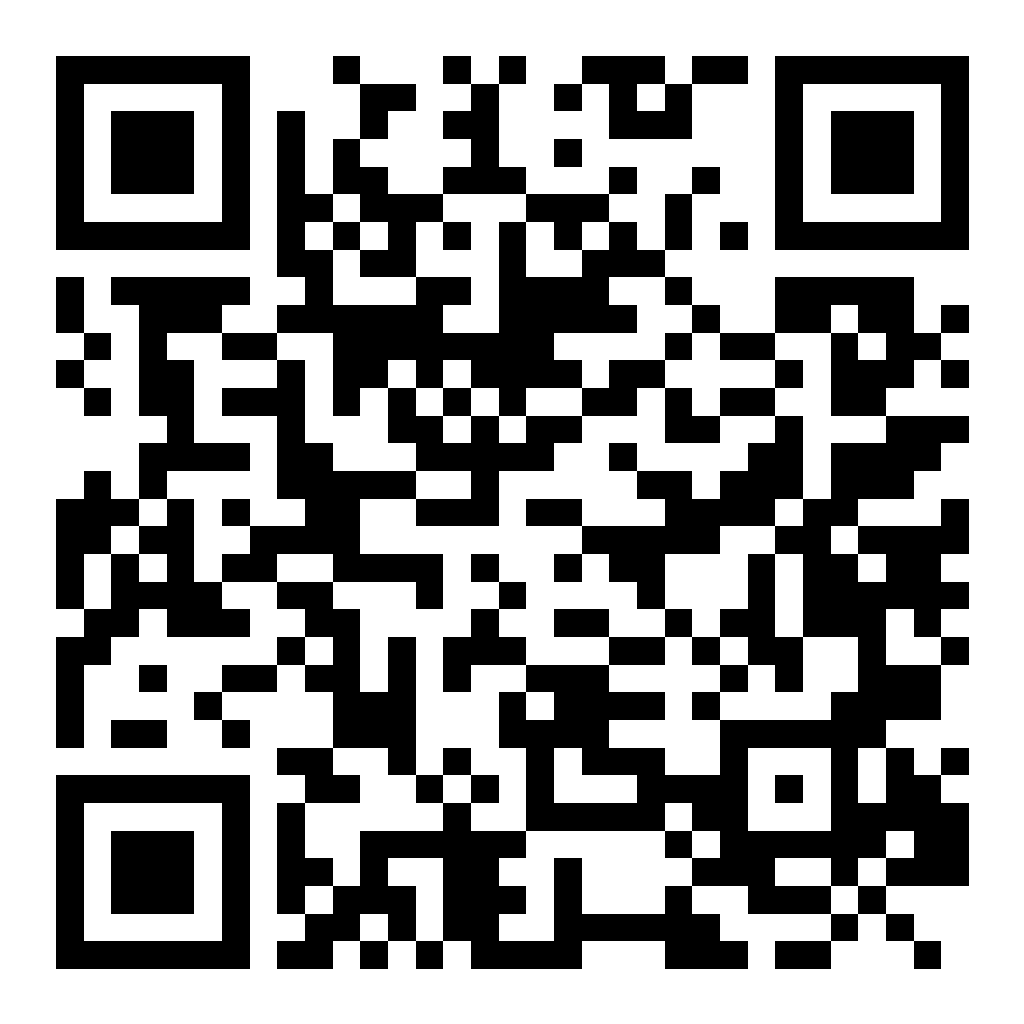
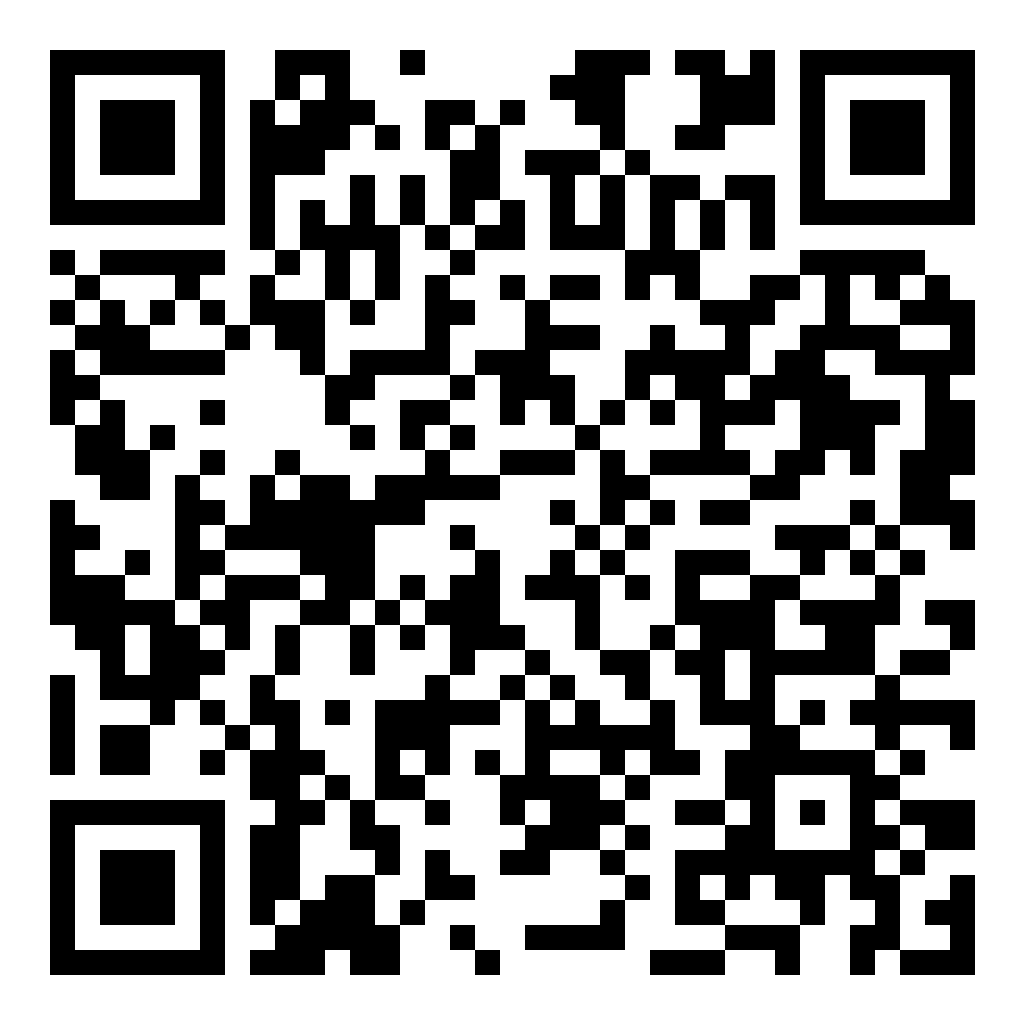
fix: point PDF download QR to actual GitHub Pages URL
기존 QR은 hyedu.kr 도메인(아직 구 Mailplug BBS 연결)을 가리켜 스캔 시
404로 떨어지는 문제가 있었다. 실제 Next.js 사이트가 배포되는
https://HY3D-co-ltd.github.io/hyedu-web/ 경로로 QR 대상 URL과
contact 페이지의 PROGRAM_PDF_URL을 변경하고 PNG/SVG를 재생성했다.
추후 hyedu.kr 도메인이 새 사이트로 전환되면 다시 이전 URL로 복구 예정.

diff --git a/scripts/generate-program-qr.ts b/scripts/generate-program-qr.ts
@@ -2,7 +2,7 @@ import QRCode from 'qrcode';
 import { writeFile, mkdir } from 'node:fs/promises';
 import { join } from 'node:path';
 
-const TARGET_URL = 'https://hyedu.kr/files/2026-programs-overview.pdf';
+const TARGET_URL = 'https://HY3D-co-ltd.github.io/hyedu-web/files/2026-programs-overview.pdf';
 const OUT_DIR = join(process.cwd(), 'public', 'files');
 const PNG_PATH = join(OUT_DIR, '2026-programs-overview-qr.png');
 const SVG_PATH = join(OUT_DIR, '2026-programs-overview-qr.svg');

diff --git a/src/app/[locale]/contact/page.tsx b/src/app/[locale]/contact/page.tsx
@@ -4,7 +4,7 @@ import { setRequestLocale } from 'next-intl/server';
 import { BreadcrumbJsonLd } from '@/components/seo/JsonLd';
 import DownloadQR from '@/components/ui/DownloadQR';
 
-const PROGRAM_PDF_URL = 'https://hyedu.kr/files/2026-programs-overview.pdf';
+const PROGRAM_PDF_URL = 'https://HY3D-co-ltd.github.io/hyedu-web/files/2026-programs-overview.pdf';
 
 export async function generateMetadata({
   params,
